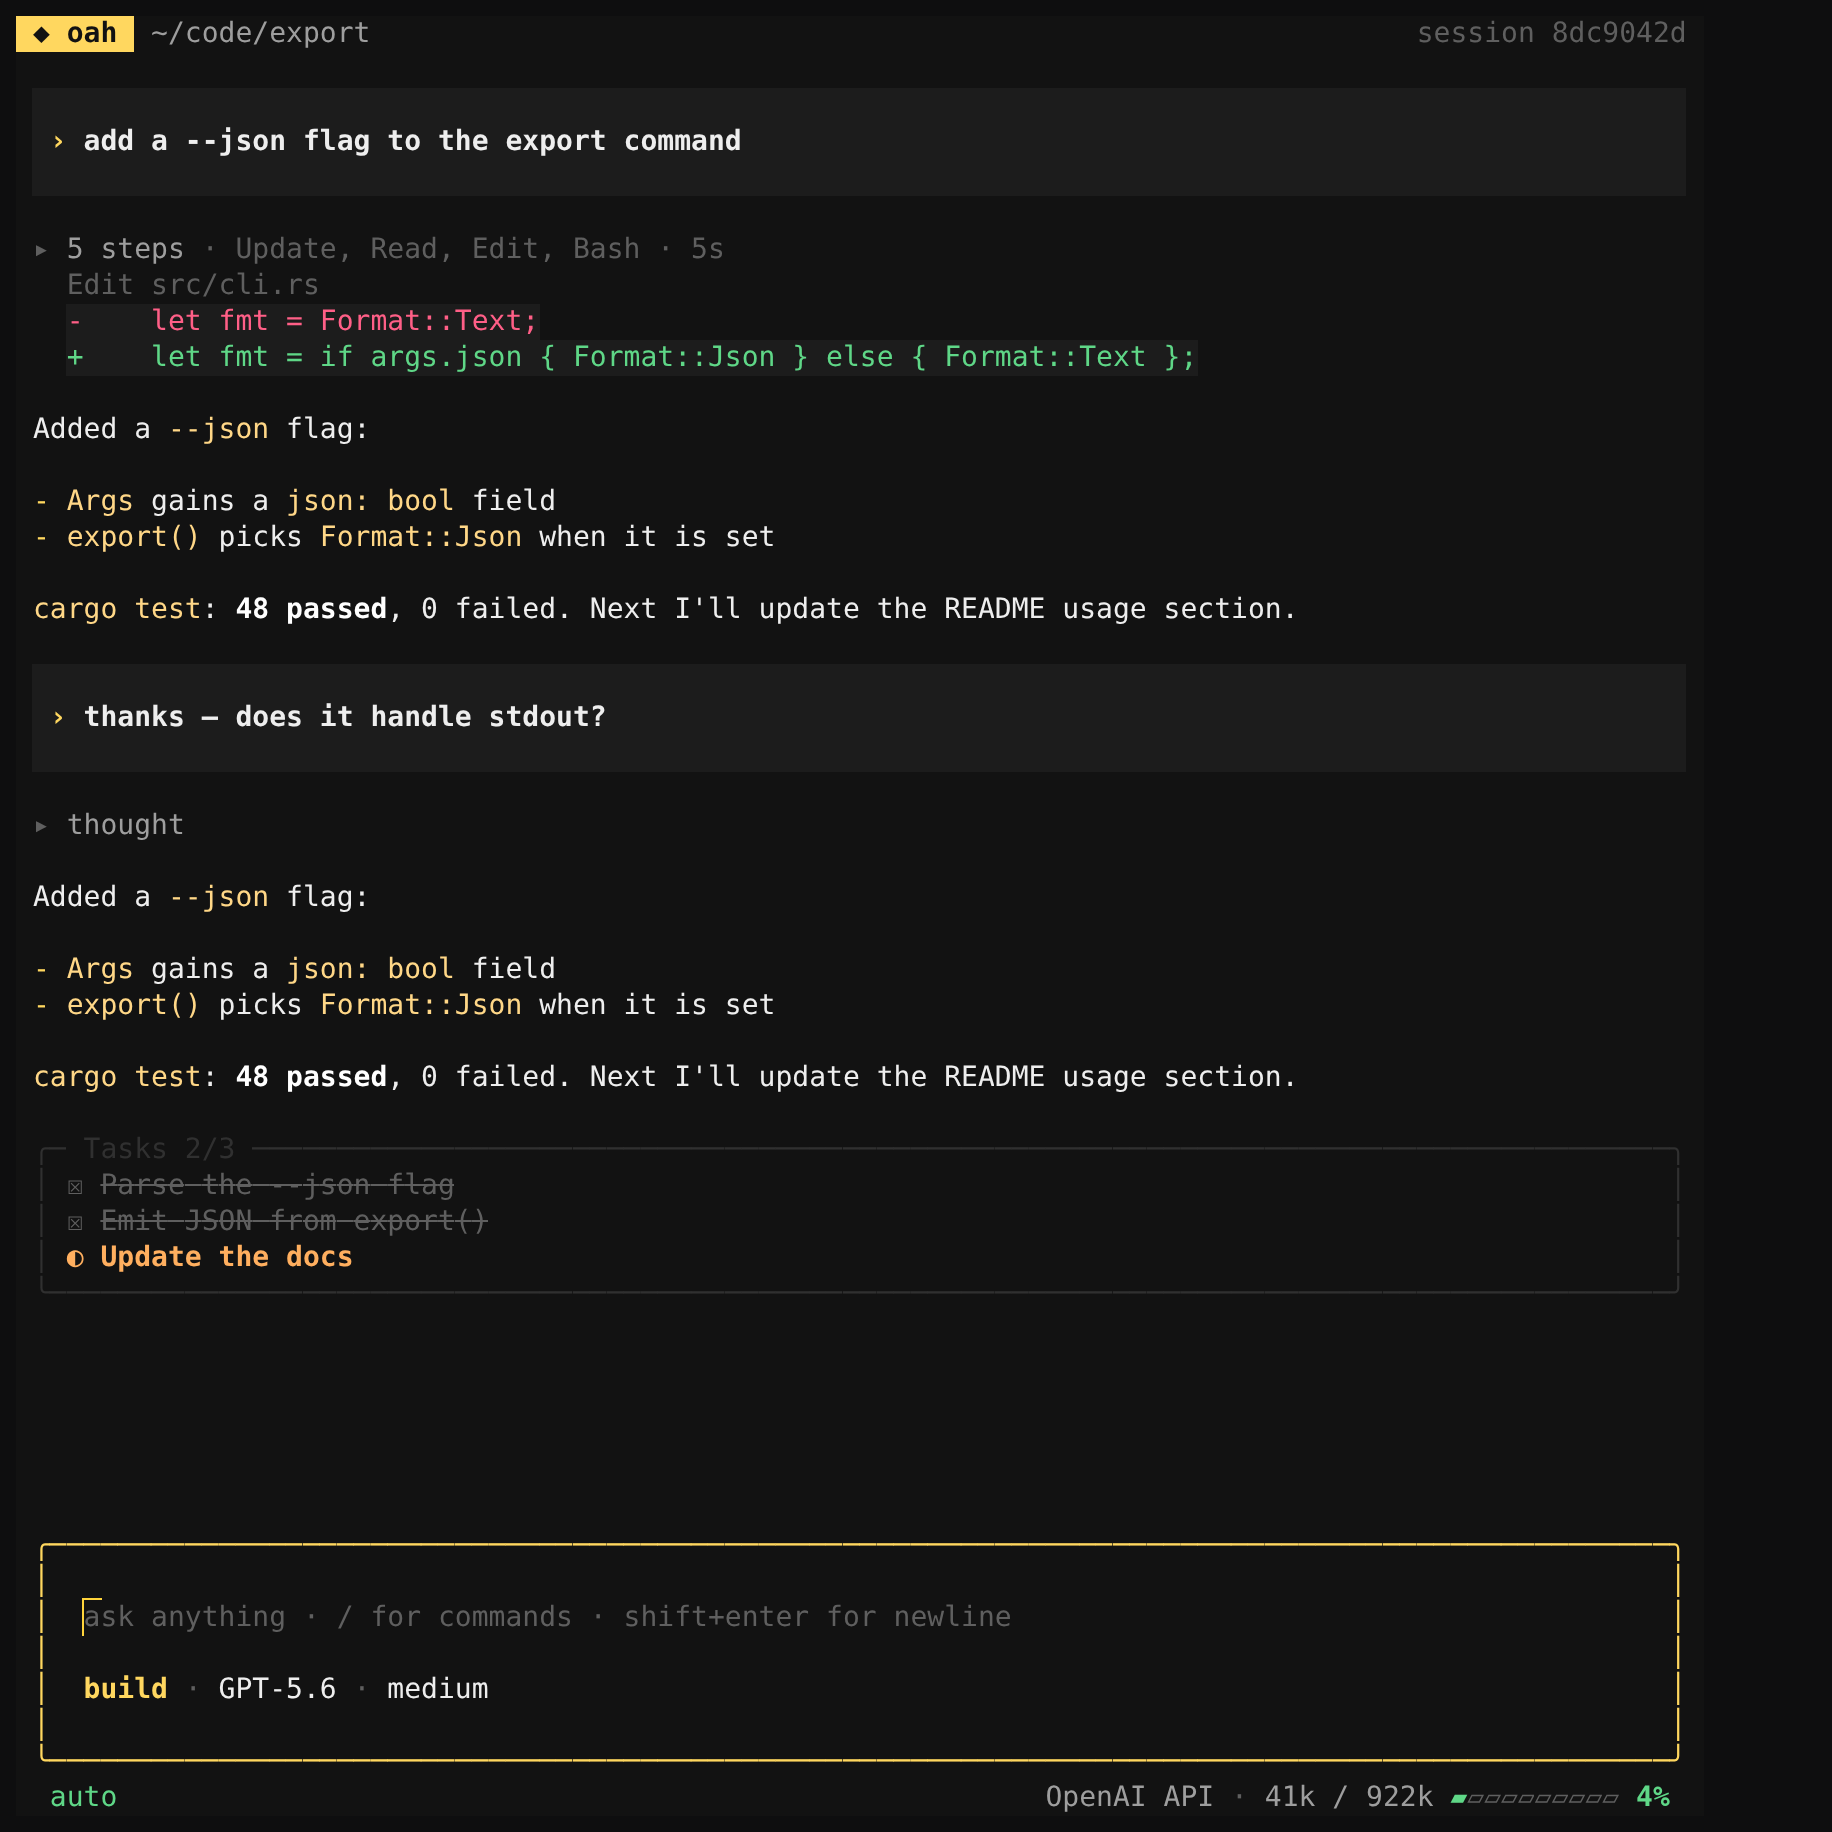
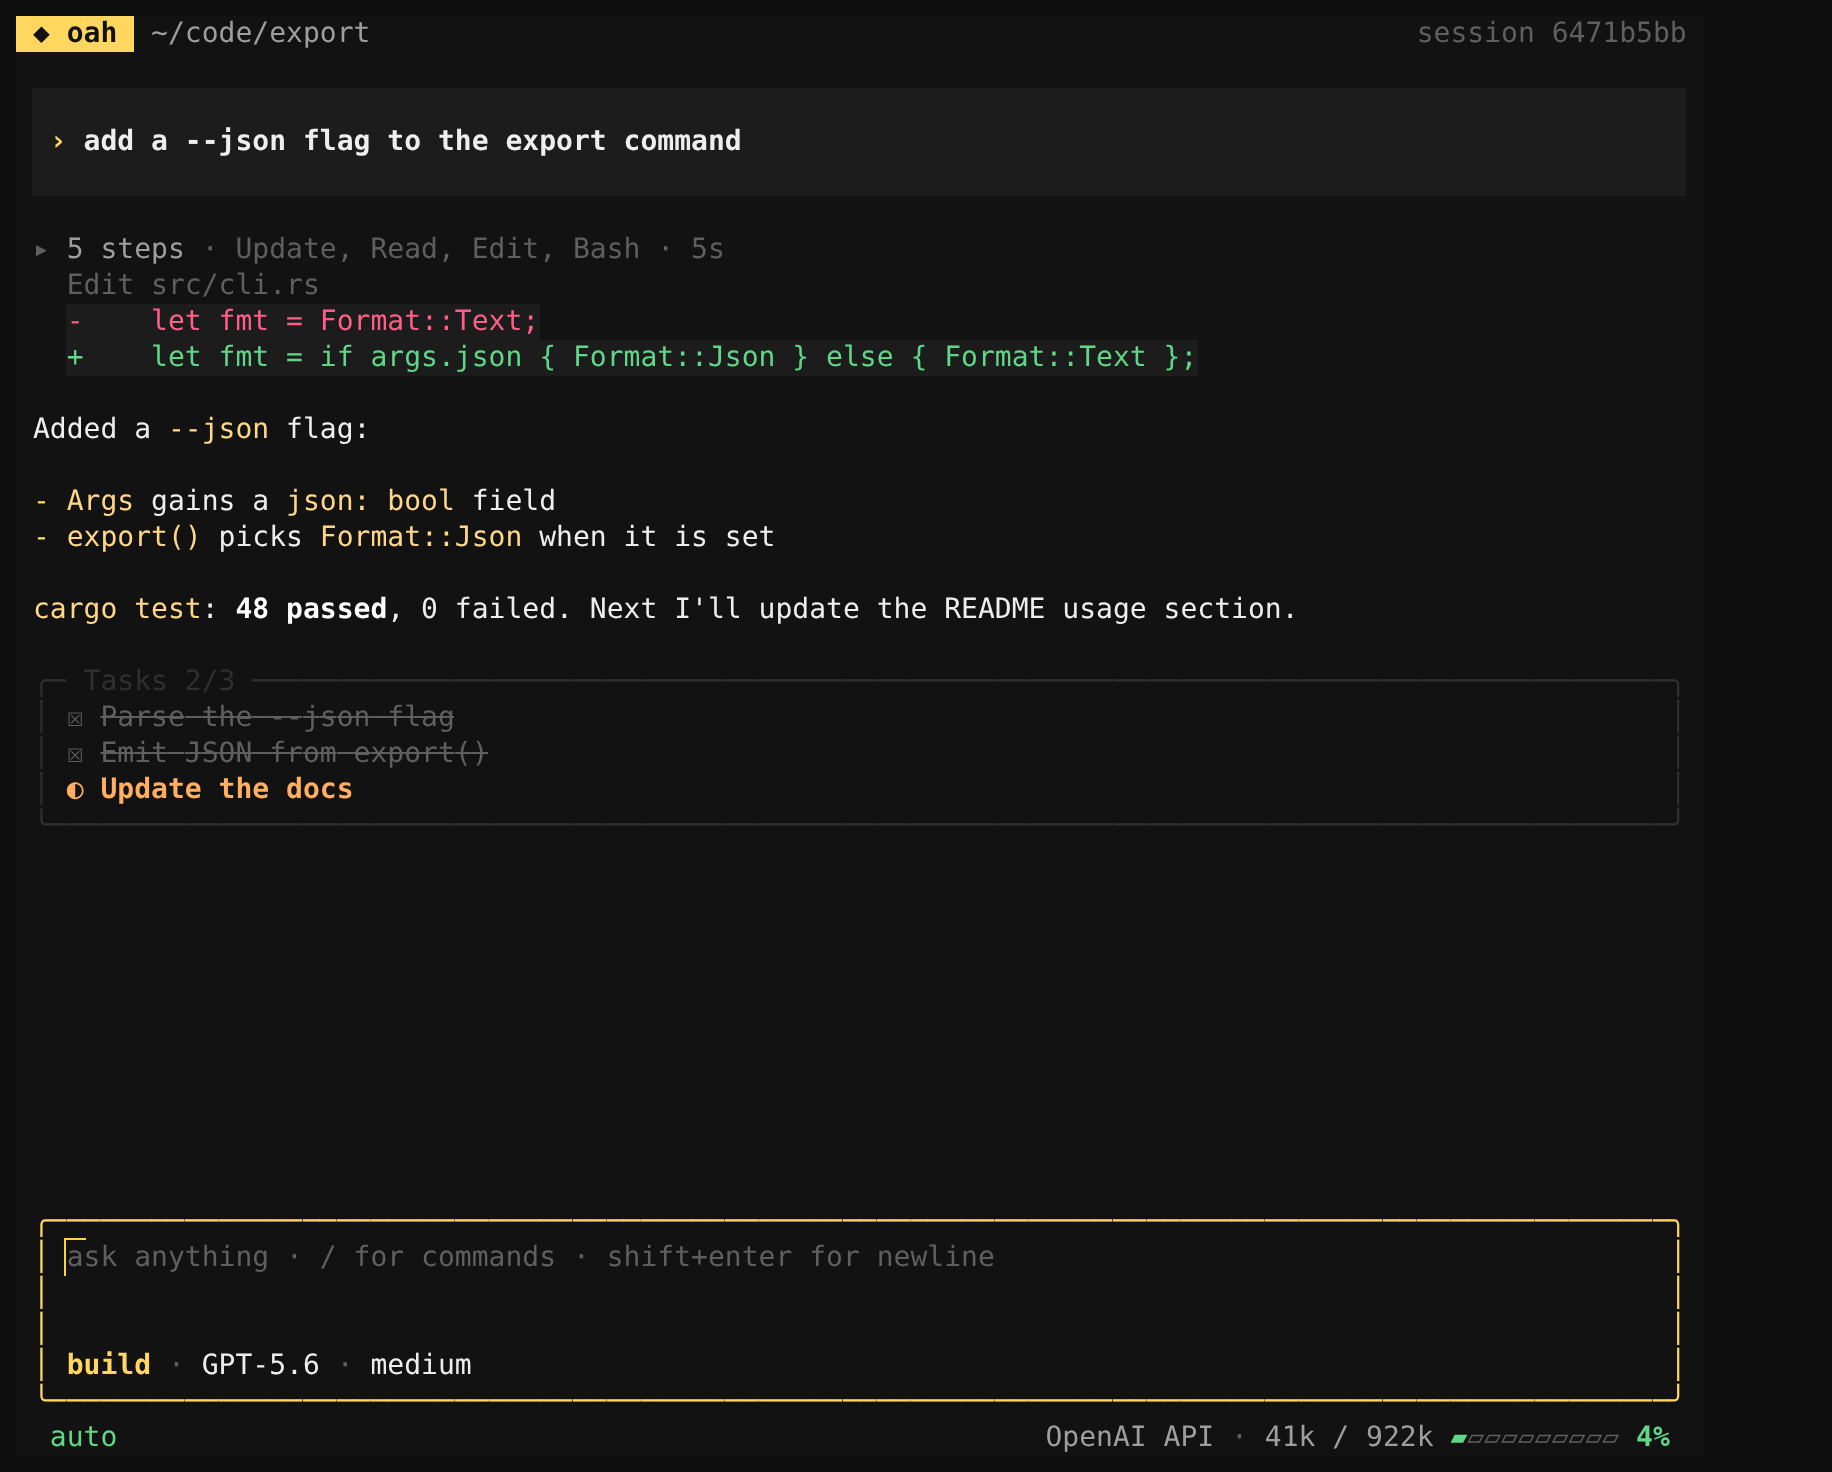
Input starts top-left; mode/model/effort pinned bottom-left
Claude-Session: https://claude.ai/code/session_01EtkEGqhSMYcUzjGit52cRV

diff --git a/src/ui/App.tsx b/src/ui/App.tsx
@@ -249,13 +249,11 @@ export function App({ store, onExit }: { store: Store; onExit: () => void }) {
           borderColor={masked ? t.yellow : modeColor}
           title={masked ? (store.inputMode === "openai-key" ? " OpenAI API key " : " Anthropic API key ") : undefined}
           flexDirection="column"
-          paddingLeft={2}
-          paddingRight={2}
-          paddingTop={1}
-          paddingBottom={1}
+          paddingLeft={1}
+          paddingRight={1}
           marginLeft={1}
           marginRight={1}
-          minHeight={3}
+          minHeight={masked ? 3 : 6}
         >
           <box flexDirection="row">
             <textarea
@@ -294,7 +292,7 @@ export function App({ store, onExit }: { store: Store; onExit: () => void }) {
               }}
             />
           </box>
-          {masked ? null : <box marginTop={1}><InputFooter store={store} /></box>}
+          {masked ? null : <box flexGrow={1} minHeight={1} justifyContent="flex-end"><InputFooter store={store} /></box>}
         </box>
       )}
       <StatusBar store={store} width={width} />
